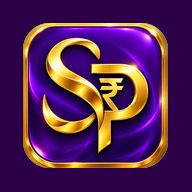
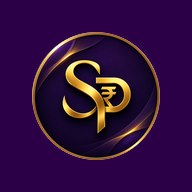
Give Android the round mark, since the launcher decides the shape
Many phones cut every home-screen icon to a circle, and an app cannot opt out:
that is what adaptive icons are. The square mark was being cropped into an icon
inside an icon — a ring of brand colour around a smaller bordered square.

So the two purposes now carry different frames of the same mark, which is what
they were always for. `any` keeps the square artwork for the places nothing
crops it: the browser tab, a desktop install, iOS. `maskable` is the round
artwork on a solid brand field, for Android.

The disc is drawn at exactly 72/108 of the canvas. That is the fraction an
adaptive icon's circle mask leaves visible, so the gold ring lands on the crop
edge — checked against 62% and 72%, which leave a dark margin inside the ring
and slice the ring off respectively. A launcher using a squircle shows the same
disc with a little brand field around it, which is what that shape is for.

Claude-Session: https://claude.ai/code/session_01RUK3tgWrLRtnrDtp1LAGxN

diff --git a/scripts/generate-manifest.ts b/scripts/generate-manifest.ts
@@ -41,17 +41,29 @@ const description = isProduction
   : `Development build of SriPay, from the ${current} branch.`;
 
 /**
- * One icon set for both branches.
+ * One icon set for both branches, in two frames.
  *
- * These used to differ: production shipped the coin alone on transparency because a
- * maskable icon must fill its canvas and the launcher cropped that to a circle, which is
- * where the violet ring around the coin came from. The SP mark is drawn as an app icon
- * rather than adapted into one, so it has its own field and its own maskable variant with
- * the artwork inset into the safe zone — the ring problem cannot recur, and there is no
- * reason left for the two builds to look different.
+ * These used to differ per branch: production shipped the coin alone on transparency
+ * because a maskable icon must fill its canvas and the launcher cropped that to a circle,
+ * which is where the violet ring around the coin came from. That is solved properly now,
+ * so both builds can look the same and telling the installs apart goes back to being the
+ * name's job — `main` installs as SriPay, `dev` as ChittiLend.
  *
- * Telling the installed apps apart is the name's job, which is what it was always for:
- * `main` installs as SriPay, `dev` as ChittiLend.
+ * The two purposes carry different artwork on purpose, because the shape of the hole they
+ * are poured into is not the same:
+ *
+ *   any       the square mark, gold border and all. Used where nothing crops it — the
+ *             browser tab, a desktop install, iOS via apple-touch-icon.
+ *
+ *   maskable  the round mark on a solid brand field. Android hands the shape to the
+ *             launcher, and many phones cut every icon to a circle, which turned the
+ *             square version into an icon inside an icon. The disc is drawn at exactly
+ *             72/108 of the canvas — the fraction an adaptive icon's circle mask leaves
+ *             visible — so the gold ring lands on the crop edge with no dark margin
+ *             inside it and no ring sliced off.
+ *
+ * A launcher using a squircle instead shows the same disc with a little brand field
+ * around it, which is what that shape is for.
  */
 const icons = [
   { src: '/icon-192.png', sizes: '192x192', type: 'image/png', purpose: 'any' },
